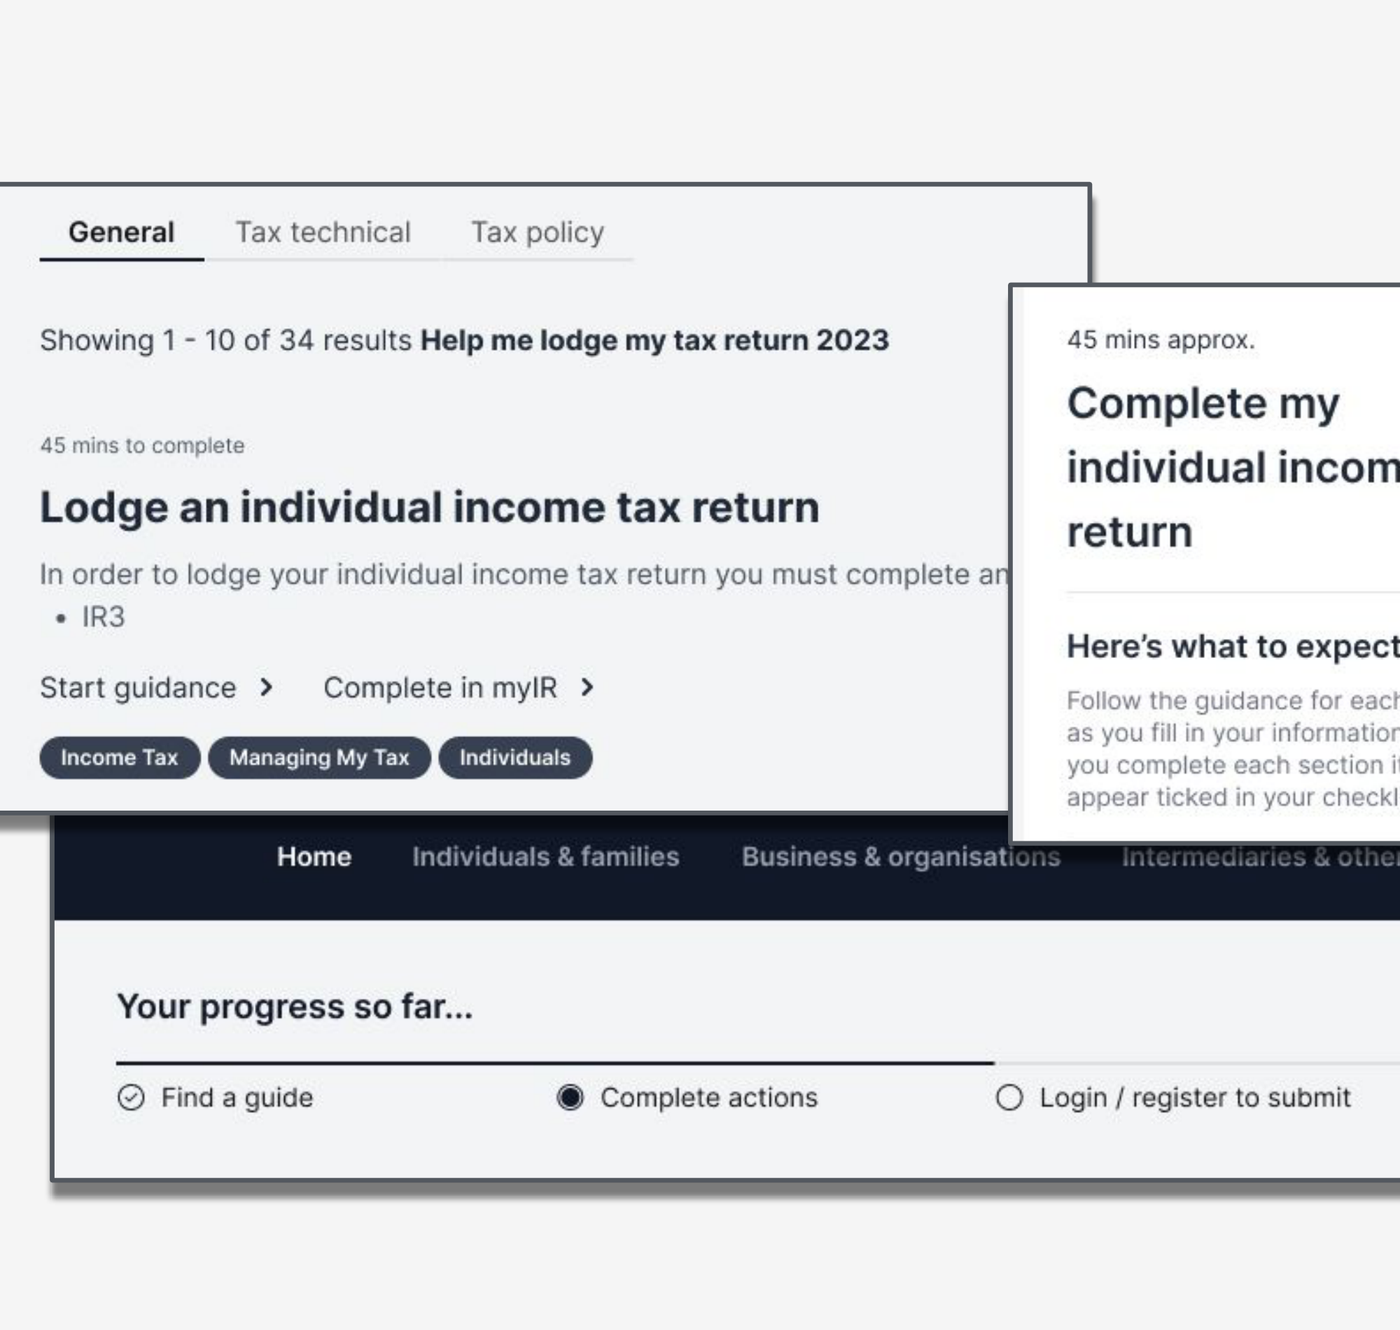
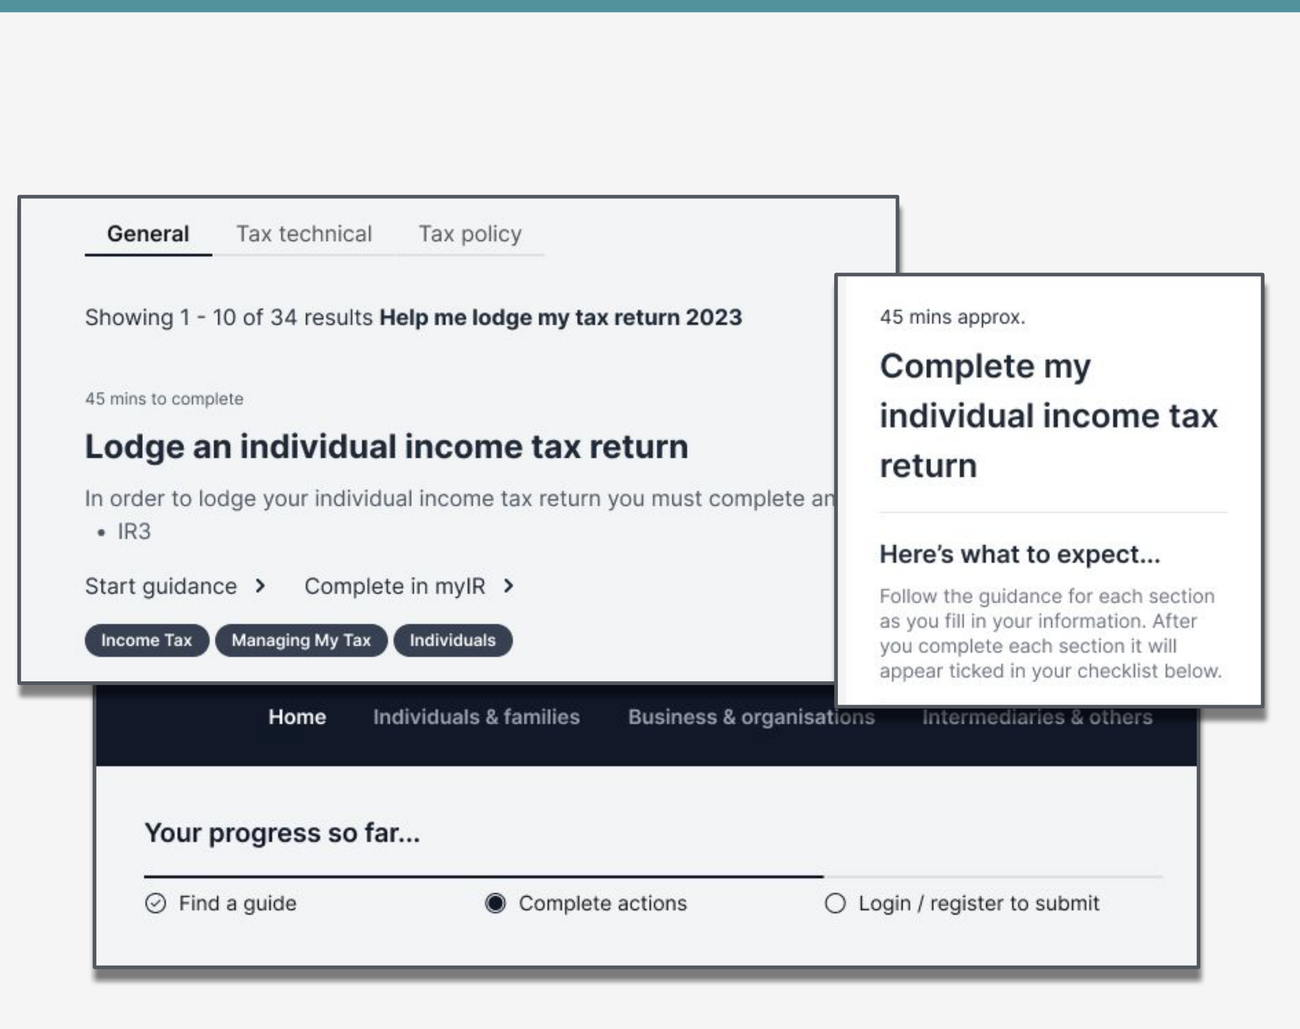
Rebuild the collage as two clean landscape frames, matching the reference
The previous version's real problem: narrow portrait tile boxes forced
every cycling image through an object-fit:cover crop meant for a phone
screenshot, so real photography came out as odd slivers. Rewrote per
direction from a reference site (Irina Moi's portfolio) — always exactly
two images, axis-aligned (no rotation), clean 4:3 and 16:10 rectangles
overlapping at one corner, generous but not oversized shadows.

Dropped every narrow-portrait phone-screenshot crop from this rotation
(time-capsule, billio-offset, one-pay, pulse-check, billio-payment,
kfc-drivethru) — they're still used correctly elsewhere, just wrong for
this layout. Re-cropped the remaining 9 real-photography/UI sources as
proper landscape rectangles, plus one new one: a 2-screen landscape slice
of the Billio flow, replacing the single-screen portrait crops as this
rotation's UI representative.

Two crop mistakes caught by re-checking the actual render, not the crop
math: Officeworks had a strip of a neighbouring red/navy panel bleeding
into the left edge; Oroton's first landscape attempt cut the crop above
where the model's face actually was, leaving mostly empty background.
Both fixed against the real page render before shipping.

Changed region(s): [[0.0, 0.1244, 1.0, 0.964], [0.0, 0.0, 1.0, 0.0311], [0.7077, 0.7775, 0.9846, 0.8397]]

diff --git a/src/components/WorkCollage.jsx b/src/components/WorkCollage.jsx
@@ -3,30 +3,24 @@ import { assetUrl } from "./Media.jsx";
 import "./WorkCollage.css";
 
 /**
- * Real project imagery in the hero, arranged as an overlapping collage
- * rather than a tidy row — inspired by portfolio sites that let the work
- * itself carry the hero. Cycles through crops from every case study project
- * (not just one) so a visitor who lingers, or reloads, sees a different
- * pairing. Every crop was picked for sharpness/composition over anything
- * else available in that project's source material — several projects had
- * options that didn't make the cut (too low-res, or cut off content).
+ * Real project imagery in the hero: two clean, axis-aligned landscape
+ * frames — one larger, one smaller overlapping its corner — cycling
+ * through crops from every case study project. Every crop here is
+ * naturally landscape (or cropped to read as one); narrow portrait phone
+ * screens live in the case study pages, not here, since forcing them into
+ * a landscape frame just cropped away the content that made them legible.
  */
 const POOL = [
-  { src: "media/hero/time-capsule.png", caption: "Banking · Product design" },
-  { src: "media/hero/kfc-presenting.jpg", caption: "QSR · CX strategy" },
   { src: "media/hero/oroton-campaign.jpg", caption: "Fashion retail · Digital product" },
-  { src: "media/hero/esssuper-cliff.jpg", caption: "Superannuation · Experience design" },
-  { src: "media/hero/fg-tax-ui.png", caption: "Government · Service design" },
-  { src: "media/hero/billio-offset.png", caption: "Banking · Product design" },
-  { src: "media/hero/kfc-review.jpg", caption: "QSR · CX strategy" },
-  { src: "media/hero/oroton-qr.jpg", caption: "Fashion retail · Digital product" },
+  { src: "media/hero/kfc-presenting.jpg", caption: "QSR · CX strategy" },
   { src: "media/hero/aussuper-family.jpg", caption: "Superannuation · Experience design" },
-  { src: "media/hero/officeworks-interior.jpg", caption: "Retail · Experience design" },
-  { src: "media/hero/one-pay.png", caption: "Banking · Product design" },
-  { src: "media/hero/kfc-drivethru.jpg", caption: "QSR · CX strategy" },
+  { src: "media/hero/fg-tax-ui.png", caption: "Government · Service design" },
   { src: "media/hero/eco-architecture.jpg", caption: "Retail · Customer strategy" },
-  { src: "media/hero/pulse-check.png", caption: "Banking · Product design" },
-  { src: "media/hero/billio-payment.png", caption: "Banking · Product design" },
+  { src: "media/hero/oroton-qr.jpg", caption: "Fashion retail · Digital product" },
+  { src: "media/hero/kfc-review.jpg", caption: "QSR · CX strategy" },
+  { src: "media/hero/esssuper-cliff.jpg", caption: "Superannuation · Experience design" },
+  { src: "media/hero/billio-landscape.png", caption: "Banking · Product design" },
+  { src: "media/hero/officeworks-interior.jpg", caption: "Retail · Experience design" },
 ];
 
 const INTERVAL_MS = 4200;
@@ -47,8 +41,6 @@ export default function WorkCollage() {
 
   return (
     <div className="work-collage" aria-hidden="true">
-      <span className="work-collage-index">01</span>
-
       <div className="work-collage-tile work-collage-tile-a">
         <img key={a.src} src={assetUrl(a.src)} alt="" loading="eager" />
       </div>

diff --git a/src/components/WorkCollage.css b/src/components/WorkCollage.css
@@ -4,26 +4,12 @@
   height: 100%;
 }
 
-.work-collage-index {
-  position: absolute;
-  top: 6%;
-  left: 0;
-  font-family: var(--font-display);
-  font-style: italic;
-  font-weight: 600;
-  font-size: clamp(2.4rem, 1.6rem + 3vw, 4rem);
-  color: var(--ink);
-  opacity: 0.85;
-  line-height: 1;
-  z-index: 0;
-}
-
 .work-collage-tile {
   position: absolute;
   overflow: hidden;
-  border-radius: 14px;
+  border-radius: 10px;
   border: 1px solid var(--line-soft);
-  box-shadow: 0 24px 48px -18px rgba(20, 15, 10, 0.4);
+  box-shadow: 0 20px 44px -16px rgba(20, 15, 10, 0.4);
   background: var(--surface-3);
 }
 
@@ -44,29 +30,28 @@
   }
 }
 
+/* Larger frame, upper-left */
 .work-collage-tile-a {
-  top: 0%;
-  left: 18%;
-  height: 68%;
-  aspect-ratio: 880 / 1190;
+  top: 0;
+  left: 0;
+  width: 78%;
+  aspect-ratio: 4 / 3;
   z-index: 1;
-  transform: rotate(-3deg);
 }
 
+/* Smaller frame, overlapping the first tile's lower-right corner */
 .work-collage-tile-b {
   bottom: 0;
-  left: 0;
-  height: 56%;
-  aspect-ratio: 320 / 635;
+  right: 0;
+  width: 52%;
+  aspect-ratio: 16 / 10;
   z-index: 2;
-  transform: rotate(5deg);
 }
 
 .work-collage-caption {
   position: absolute;
-  bottom: 2%;
-  right: 2%;
-  z-index: 1;
+  bottom: -1.75rem;
+  right: 0;
   font-family: var(--font-display);
   font-style: italic;
   font-size: 0.85rem;
